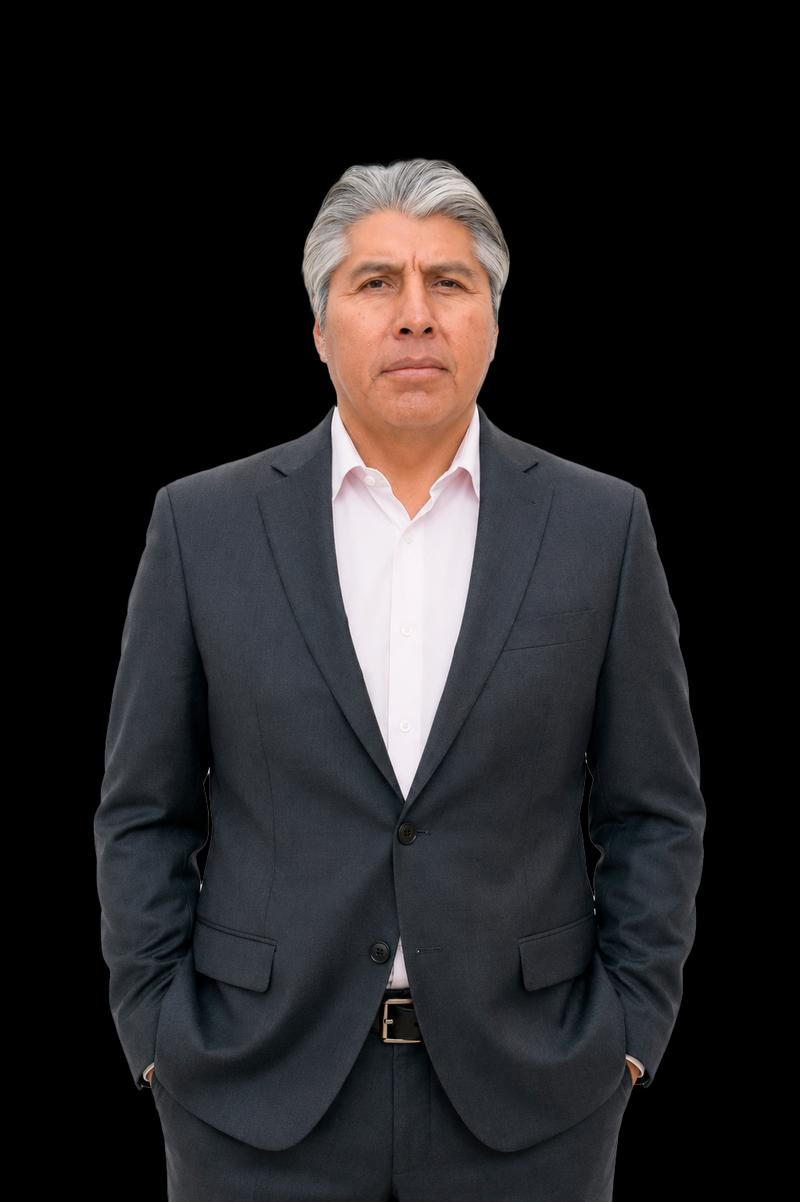
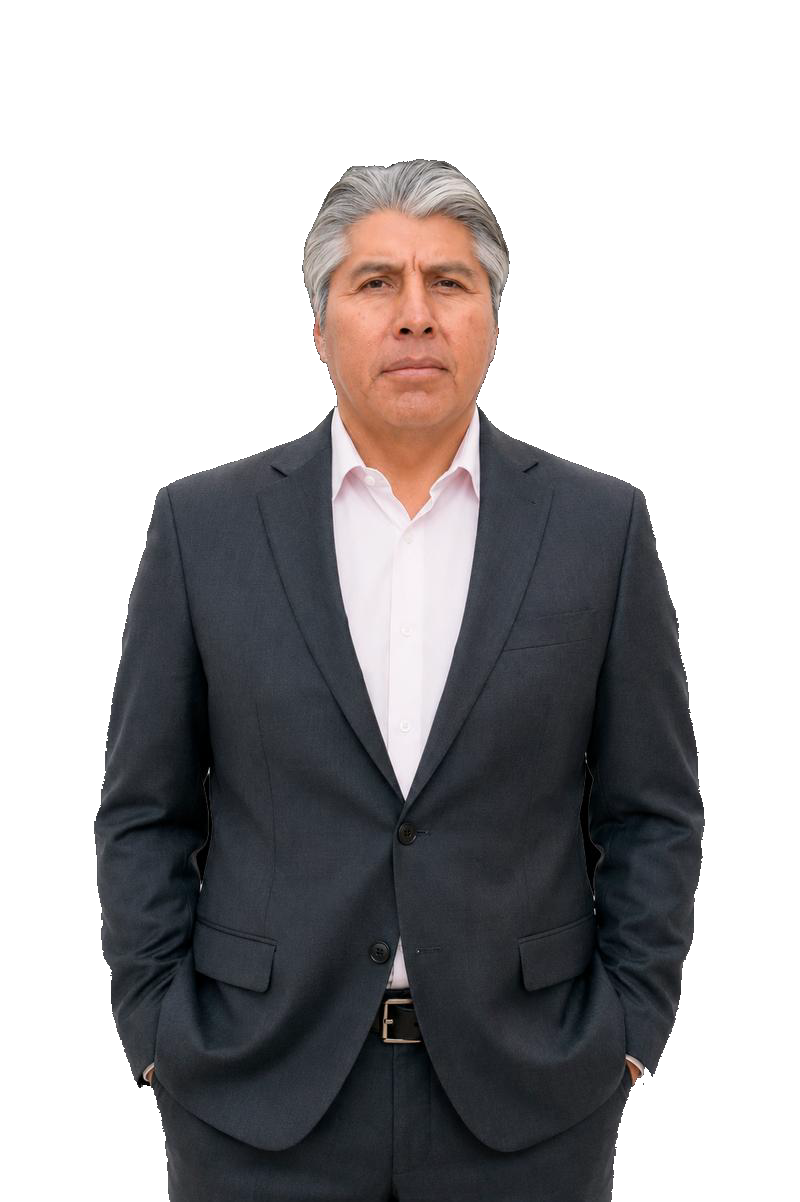
perf: animaciones moviles instantaneas y ajustes de UI

diff --git a/scripts/remove_bg.js b/scripts/remove_bg.js
@@ -1,0 +1,77 @@
+const Jimp = require('jimp');
+
+async function removeBg() {
+  try {
+    const image = await Jimp.read('../public/gobernador_perfil.png');
+    const w = image.bitmap.width;
+    const h = image.bitmap.height;
+    
+    // Flood fill algorithm
+    const stack = [[0, 0], [w - 1, 0]];
+    const visited = new Uint8Array(w * h);
+    const transparentMask = new Uint8Array(w * h);
+    
+    const threshold = 30; // Slightly higher threshold
+    
+    while (stack.length > 0) {
+      const [x, y] = stack.pop();
+      if (x < 0 || x >= w || y < 0 || y >= h) continue;
+      
+      const idx = y * w + x;
+      if (visited[idx]) continue;
+      visited[idx] = 1;
+      
+      const hex = image.getPixelColor(x, y);
+      const rgba = Jimp.intToRGBA(hex);
+      
+      if (rgba.r <= threshold && rgba.g <= threshold && rgba.b <= threshold && rgba.a > 0) {
+        image.setPixelColor(0x00000000, x, y);
+        transparentMask[idx] = 1;
+        
+        stack.push([x + 1, y]);
+        stack.push([x - 1, y]);
+        stack.push([x, y + 1]);
+        stack.push([x, y - 1]);
+      }
+    }
+
+    // Erosion passes to remove the halo
+    for (let pass = 0; pass < 2; pass++) {
+      const toRemove = [];
+      for (let y = 0; y < h; y++) {
+        for (let x = 0; x < w; x++) {
+          const idx = y * w + x;
+          if (!transparentMask[idx]) {
+            // Check neighbors
+            let hasTransparentNeighbor = false;
+            if (x > 0 && transparentMask[y * w + (x - 1)]) hasTransparentNeighbor = true;
+            if (x < w - 1 && transparentMask[y * w + (x + 1)]) hasTransparentNeighbor = true;
+            if (y > 0 && transparentMask[(y - 1) * w + x]) hasTransparentNeighbor = true;
+            if (y < h - 1 && transparentMask[(y + 1) * w + x]) hasTransparentNeighbor = true;
+
+            if (hasTransparentNeighbor) {
+              const hex = image.getPixelColor(x, y);
+              const rgba = Jimp.intToRGBA(hex);
+              // If border pixel is dark, mark for removal
+              if (rgba.r < 80 && rgba.g < 80 && rgba.b < 80) {
+                toRemove.push({x, y, idx});
+              }
+            }
+          }
+        }
+      }
+
+      for (const p of toRemove) {
+        image.setPixelColor(0x00000000, p.x, p.y);
+        transparentMask[p.idx] = 1;
+      }
+    }
+    
+    await image.writeAsync('../public/gobernador_perfil.png');
+    console.log('Background removed with anti-halo erosion!');
+  } catch (err) {
+    console.error('Error:', err);
+  }
+}
+
+removeBg();

diff --git a/src/components/Navbar/Navbar.jsx b/src/components/Navbar/Navbar.jsx
@@ -303,11 +303,11 @@ export default function Navbar() {
           {mobileOpen && (
             <motion.div
               className={styles.mobileMenu}
-              initial={{ height: 0, opacity: 0 }}
-              animate={{ height: 'auto', opacity: 1 }}
-              exit={{ height: 0, opacity: 0 }}
-              transition={{ duration: 0.3, ease: 'easeInOut' }}
-              style={{ overflow: 'hidden' }}
+              initial={{ opacity: 0, y: -15 }}
+              animate={{ opacity: 1, y: 0 }}
+              exit={{ opacity: 0, y: -15 }}
+              transition={{ duration: 0.2, ease: 'easeOut' }}
+              style={{ transformOrigin: 'top' }}
             >
               <div className={styles.mobileMenuInner}>
                 {dynamicNavItems.map((item, i) => (
@@ -315,7 +315,7 @@ export default function Navbar() {
                     key={item.label}
                     initial={{ opacity: 0, x: -10 }}
                     animate={{ opacity: 1, x: 0 }}
-                    transition={{ delay: i * 0.05 }}
+                    transition={{ delay: i * 0.02, duration: 0.2 }}
                   >
                   {item.children ? (
                     <button
@@ -345,7 +345,7 @@ export default function Navbar() {
                         initial={{ height: 0, opacity: 0 }}
                         animate={{ height: 'auto', opacity: 1 }}
                         exit={{ height: 0, opacity: 0 }}
-                        transition={{ duration: 0.3 }}
+                        transition={{ duration: 0.15, ease: 'easeOut' }}
                         style={{ overflow: 'hidden' }}
                       >
                         <div 

diff --git a/src/app/(public)/institucion/gobernador/gobernador.module.css b/src/app/(public)/institucion/gobernador/gobernador.module.css
@@ -151,15 +151,19 @@
 
 @media (max-width: 768px) {
   .pageWrapper {
-    padding: 100px 1rem 3rem 1rem;
+    padding: 70px 1rem 3rem 1rem;
+  }
+
+  .pantoneCard {
+    margin-top: -20px;
   }
 
   .mainTitle {
-    font-size: 2.5rem;
+    font-size: 1.8rem;
   }
 
   .subtitle {
-    font-size: 1.2rem;
+    font-size: 1rem;
   }
 
   .pantoneTitle {
